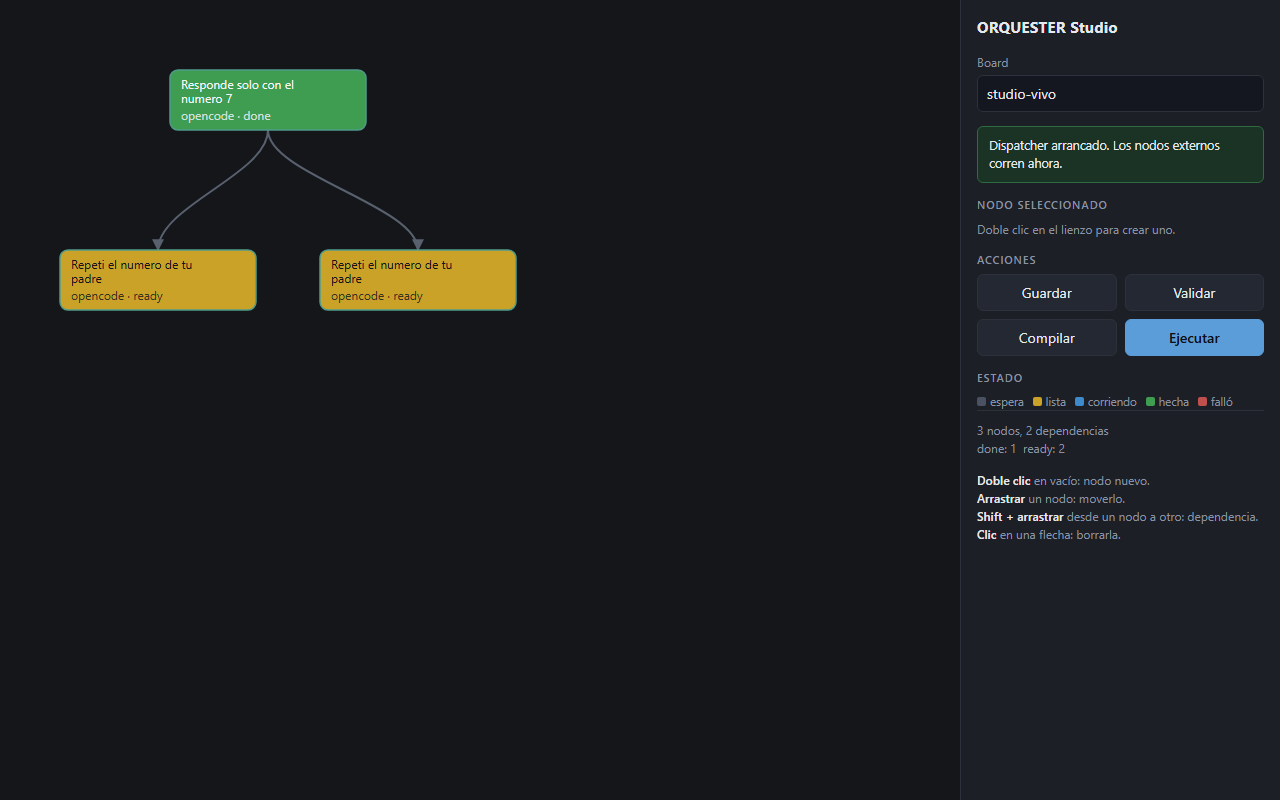
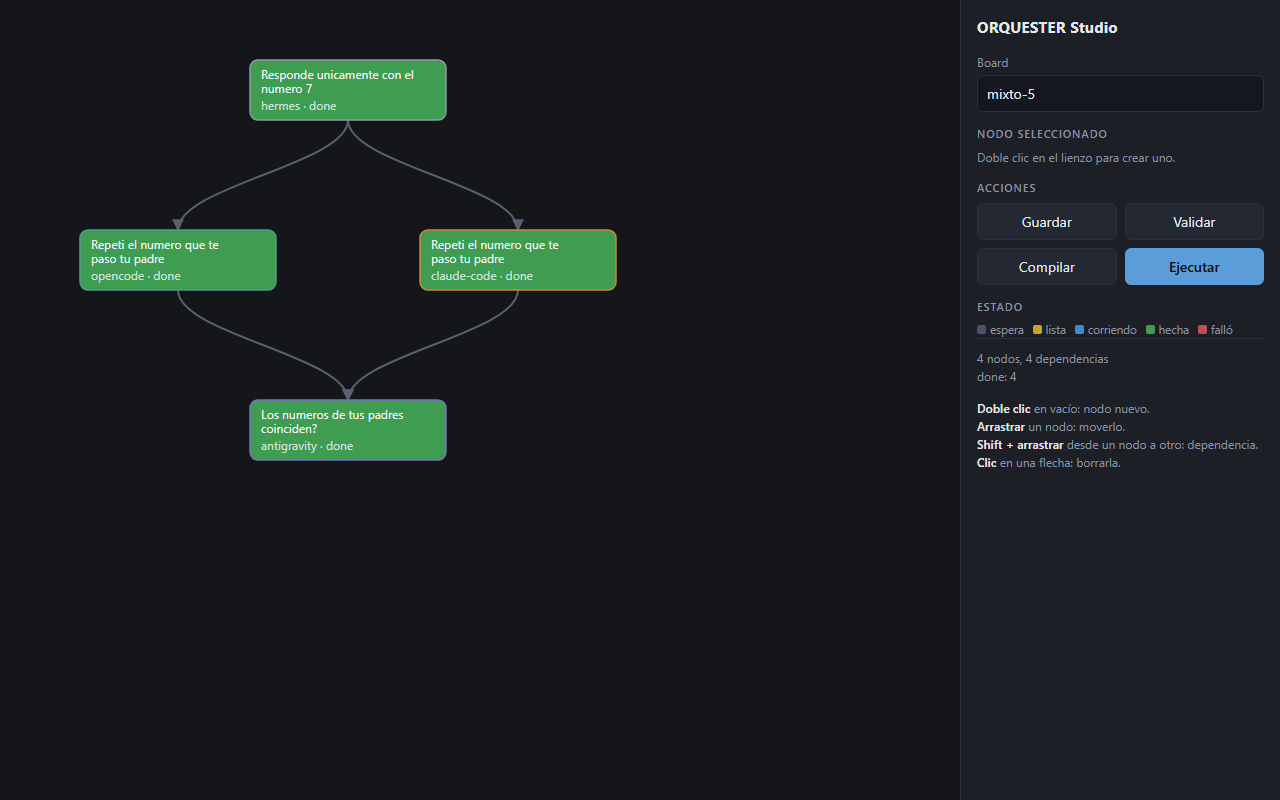
fix: un nodo que falla se bloquea, no cierra; claude exige schema inline

diff --git a/tests/test_rebanada_vertical.py b/tests/test_rebanada_vertical.py
@@ -134,4 +134,23 @@ print(f"B4. B -> {res_b['status']}: {res_b['summary'][:80]}")
 assert res_b["status"] == "success", res_b
 assert k.get_task(conn, B).status == "done"
 
+# --- Un nodo que falla NO debe liberar a sus hijos ---
+# Es el bug que destapo el board `mixto-4`: cerrar con `complete_task` marca la
+# card 'done' y el kanban promueve al hijo, que arranca sobre el mensaje de
+# error creyendo que es el resultado del padre.
+P = k.create_task(conn, title="Nodo que va a fallar", assignee=loop.carril("claude-code"))
+H = k.create_task(conn, title="Hijo que no debe arrancar",
+                  assignee=loop.carril("opencode"), parents=[P])
+orig = b.BACKENDS["claude-code"]
+b.BACKENDS["claude-code"] = (lambda g, e: ["python", "-c", "print('sin contrato')"],
+                             b._primer_objeto)
+try:
+    res = loop.ejecutar_una(conn, P, timeout=60)
+finally:
+    b.BACKENDS["claude-code"] = orig
+print(f"B5. fallo -> padre={k.get_task(conn, P).status}, hijo={k.get_task(conn, H).status}")
+assert res["status"] == "failure", res
+assert k.get_task(conn, P).status == "blocked", "un fallo debe bloquear, no cerrar"
+assert k.get_task(conn, H).status == "todo", "el hijo NO puede liberarse tras un fallo"
+
 print("\nOK: la rebanada vertical corre punta a punta.")

diff --git a/dispatcher/loop.py b/dispatcher/loop.py
@@ -61,11 +61,14 @@ def ejecutar_una(conn, task_id: str, *, timeout: int = 600) -> dict:
         ctx = k.build_worker_context(conn, task_id)   # summaries de los padres
         salida = run_backend(_runtime_de(task), ctx, timeout=timeout)
     except BackendError as e:
-        # ponytail: un fallo duro cierra la card con status=failure en vez de
-        # marcarla 'failed'. El estado real vive en `_record_task_failure`, que
-        # es privado; acoplarnos a el es peor que perder el matiz. Upgrade:
-        # pedir API publica upstream, o el circuit breaker no cuenta estos.
-        salida = {"status": "failure", "summary": str(e)[:2000]}
+        # Un nodo que falla NO se cierra: se bloquea. Si se cerrara con
+        # `complete_task`, el kanban lo veria 'done' y **promoveria a sus
+        # hijos**, que arrancarian sobre el mensaje de error como si fuera el
+        # resultado del padre. Observado en el board `mixto-4`: dos nodos
+        # fallaron, cerraron igual, y el hijo corrio sobre la basura.
+        latido.set()
+        k.block_task(conn, task_id, reason=str(e)[:2000])
+        return {"status": "failure", "summary": str(e)[:2000]}
     finally:
         latido.set()
 

diff --git a/dispatcher/backends.py b/dispatcher/backends.py
@@ -126,9 +126,14 @@ BACKENDS = {
         lambda out: _parse_envelope(out, "structured_output"),
     ),
     "claude-code": (
+        # Ojo: claude exige el schema **inline**, no una ruta — al reves que agy.
+        # Verificado: con una ruta responde `--json-schema is not valid JSON`.
+        # Pasarlo inline es seguro porque el argv va directo a CreateProcess, sin
+        # shell de por medio; la regla de "schema en archivo" era contra el
+        # escapado de PowerShell, que aca no participa.
         lambda goal, esquema: [
             "claude", "-p", goal,
-            "--output-format", "json", "--json-schema", esquema,
+            "--output-format", "json", "--json-schema", json.dumps(CONTRATO),
             "--max-turns", "5",
         ],
         lambda out: _parse_envelope(out, "structured_output"),

diff --git a/ARQUITECTURA.md b/ARQUITECTURA.md
@@ -277,7 +277,7 @@ Knobs relevantes bajo `delegation:` en `config.yaml`: `max_concurrent_children` 
 
 ## 10. Estado de verificación
 
-**35 afirmaciones, 1 pendiente.** Lo que más vale de esta tabla son las **seis
+**38 afirmaciones, 1 pendiente.** Lo que más vale de esta tabla son las **ocho
 filas "Verificado: NO"**: supuestos de diseño que parecían ciertos leyendo el
 código de Hermes y que la ejecución desmintió. Cada una habría sido un bug en
 producción, y ninguna se ve sin correr el sistema.
@@ -322,6 +322,9 @@ Convención: **Verificado (ejecutado)** = hay salida cruda pegada en `tests/`.
 | Los dos dispatchers coexisten sin pisarse | **Verificado (ejecutado)** | paso 4: 4 reclamos + 3 ticks, cero solapamiento, cero doble ejecución |
 | `run_backend` cumple el contrato con los 3 CLIs | **Verificado (ejecutado)** | `tests/test_rebanada_vertical.py` parte A: parsers contra las formas reales, denylist, contrato |
 | Un nodo externo alimenta a otro nodo externo | **Verificado (ejecutado)** | parte B: cadena `opencode -> opencode`, el hijo devolvió el valor del padre |
+| Rombo mixto con los CUATRO ejecutores | **Verificado (ejecutado)** | board `mixto-5`: A hermes -> B opencode + C claude-code -> D antigravity; D respondió *"ambos padres enviaron 7"* |
+| `claude --json-schema` acepta una ruta de archivo | **Verificado: NO** | exige JSON inline (`is not valid JSON: Unexpected identifier`); al revés que `agy` |
+| Un nodo que falla retiene a sus hijos | **Verificado: NO lo hacía** | cerraba con `complete_task` y el kanban promovía al hijo sobre el mensaje de error. Corregido con `block_task` |
 
 ---
 
